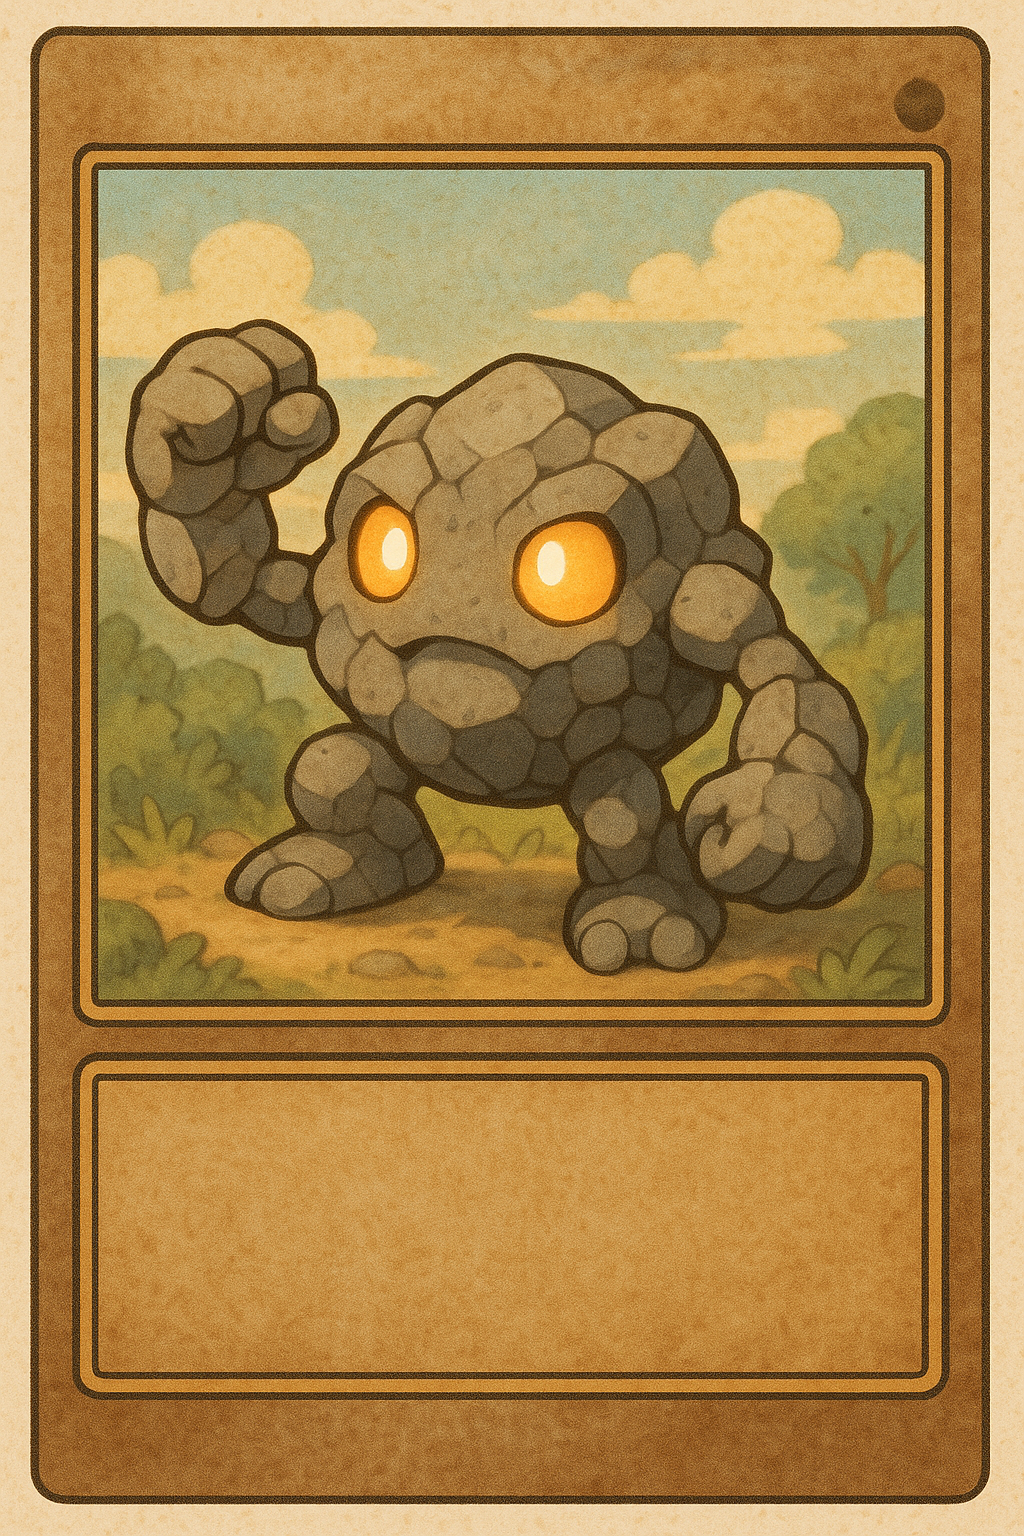
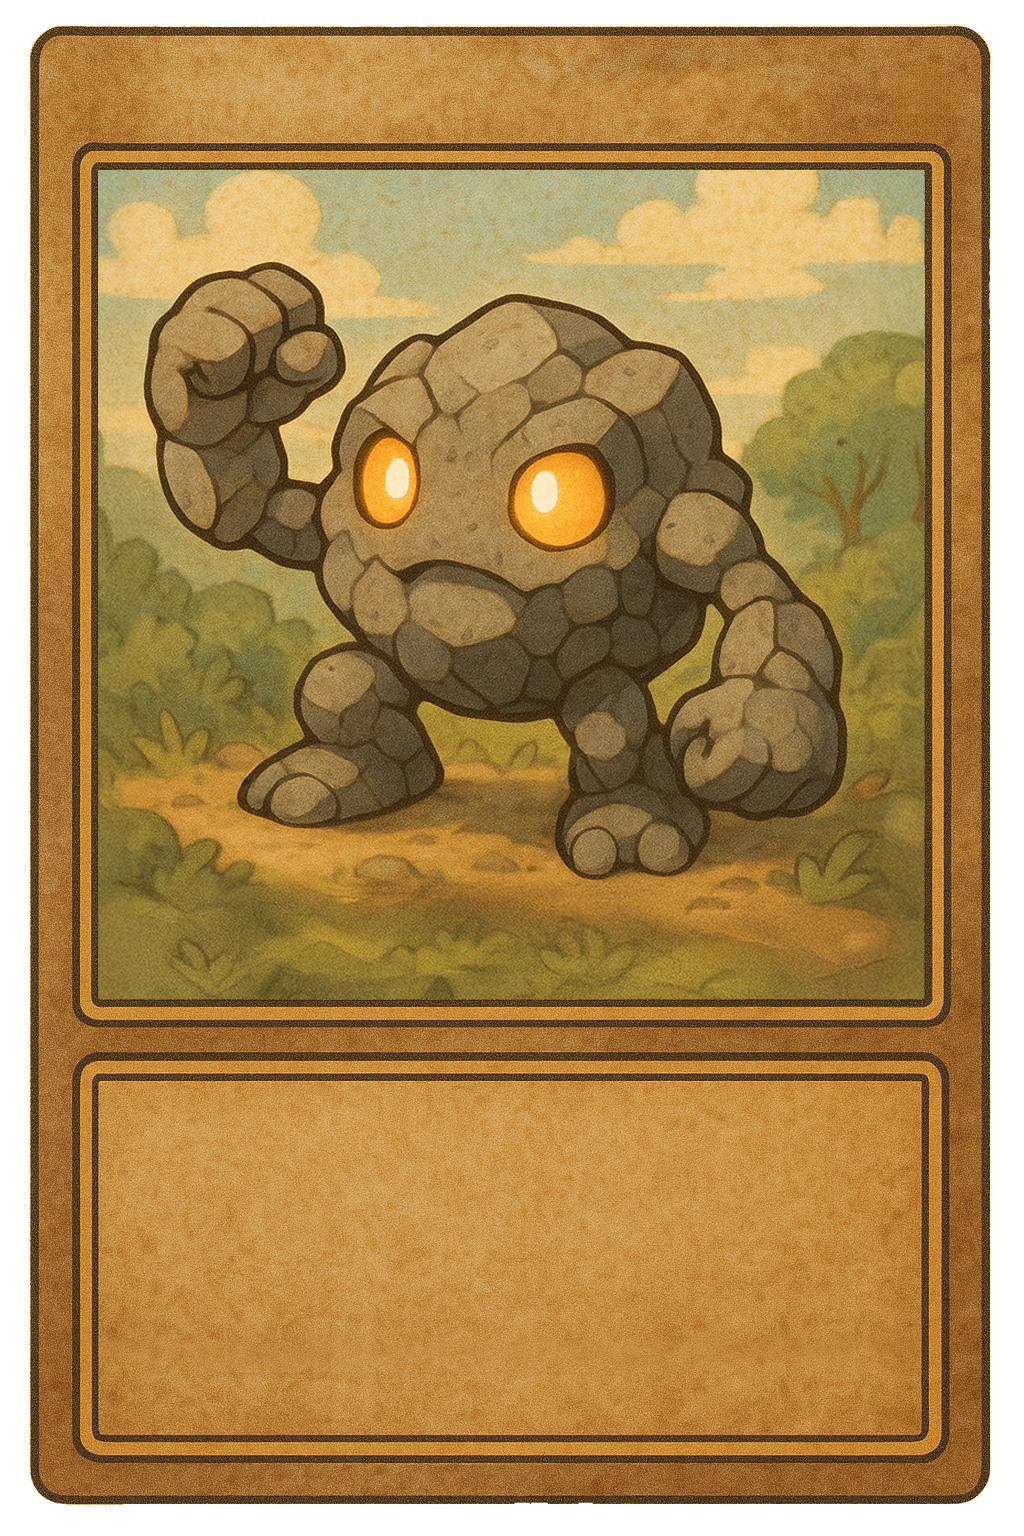
fix shadow dashboard + background login/register

diff --git a/src/pages/LoginPage.css b/src/pages/LoginPage.css
@@ -1,10 +1,18 @@
+/* Apply background color to body instead of centered */
+body {
+  background-color: #A5D7EF;
+  margin: 0;
+  padding: 0;
+  height: 100%;
+}
+
+/* Centered layout */
 .centered {
   position: relative;
   display: flex;
   align-items: center;
   justify-content: center;
   min-height: 100vh;
-  background-color: #A5D7EF;
   overflow: hidden;
 }
 
@@ -54,9 +62,9 @@
   background-color: rgb(255, 225, 190);
 }
 
-/* Optionally, for when input is focused */
+/* Focus state */
 .input:focus {
-  border-color: #20a9e9; /* Change border color on focus */
+  border-color: #20a9e9;
 }
 
 /* Button styling */
@@ -81,29 +89,6 @@
   transform: scale(1.03);
 }
 
-/* Background elements (bottom left and right corners) */
-.login-bg-bottom-left {
-  position: fixed;
-  bottom: 0;
-  left: 0;
-  max-height: 800px;
-  z-index: 1;
-  opacity: 0.5;
-  pointer-events: none;
-  object-fit: contain;
-}
-
-.login-bg-bottom-right {
-  position: fixed;
-  bottom: 0;
-  right: 0;
-  max-height: 800px;
-  z-index: 1;
-  opacity: 0.5;
-  pointer-events: none;
-  object-fit: contain;
-}
-
 .status-message {
   font-family: 'Nunito', sans-serif;
   background-color: #d1fae5;
@@ -114,4 +99,61 @@
   margin-bottom: 1rem;
   font-weight: bold;
   text-align: center;
+}
+
+/* Ensure root takes full height */
+html, body, #root {
+  height: 100%;
+  margin: 0;
+  padding: 0;
+}
+
+/* Generic text styling */
+.text {
+  font-family: 'Lucida Sans', 'Lucida Sans Regular', 'Lucida Grande', 'Lucida Sans Unicode', Geneva, Verdana, sans-serif;
+}
+
+.link {
+  text-decoration: none;
+  color: hsl(211, 100%, 55%);
+  font-weight: 900;
+  transition: color 0.3s ease, transform 0.3s ease;
+  display: inline-block;
+  cursor: pointer;
+}
+
+.link:hover {
+  color: #0065d1;
+  transform: scale(1.02);
+}
+
+/* Decorative backgrounds */
+.bg-bottom-left {
+  position: fixed;
+  bottom: 0;
+  left: 0;
+  width: 60%;
+  height: 60%;
+  background-image: url('/assets/backgrounds/trees_left.png');
+  background-size: contain;
+  background-repeat: no-repeat;
+  background-position: bottom left;
+  z-index: -1; /* behind content */
+  opacity: 0.5;
+  pointer-events: none;
+}
+
+.bg-bottom-right {
+  position: fixed;
+  bottom: 0;
+  right: 0;
+  width: 60%;
+  height: 60%;
+  background-image: url('/assets/backgrounds/trees_right.png');
+  background-size: contain;
+  background-repeat: no-repeat;
+  background-position: bottom right;
+  z-index: -1; /* behind content */
+  opacity: 0.5;
+  pointer-events: none;
 }

diff --git a/src/index.css b/src/index.css
@@ -11,44 +11,9 @@ html, body, #root {
   font-family: sans-serif;
 }
 
-/* Card styles */
-.card {
-  position: relative;
-
-  height: 375px;
-  background-size: cover;
-  background-position: center;
-  box-shadow: 0 10px 20px rgba(0,0,0,0.2);
-
-  overflow: hidden;
-}
-
-.card-header {
-  position: absolute;
-  top: 0.75rem;
-  width: 100%;
-  text-align: center;
-  font-weight: bold;
-  font-size: 1.125rem;
-  color: white;
-  text-shadow: 1px 1px 2px black;
-}
-
-.card-footer {
-  position: absolute;
-  bottom: 0.75rem;
-  left: 0.75rem;
-  right: 0.75rem;
-  font-size: 0.75rem;
-  color: white;
-  font-weight: 500;
-  text-shadow: 1px 1px 2px black;
-}
-
 .text {
   font-family: 'Lucida Sans', 'Lucida Sans Regular', 'Lucida Grande', 'Lucida Sans Unicode', Geneva, Verdana, sans-serif;
 }
-
 
 .link {
   text-decoration: none;
@@ -75,7 +40,7 @@ html, body, #root {
   background-size: contain;
   background-repeat: no-repeat;
   background-position: bottom left;
-  z-index: 1;
+  z-index: 0;
   opacity: 0.5;
   pointer-events: none;
 }
@@ -90,8 +55,7 @@ html, body, #root {
   background-size: contain;
   background-repeat: no-repeat;
   background-position: bottom right;
-  z-index: 1;
+  z-index: 0;
   opacity: 0.5;
   pointer-events: none;
 }
-

diff --git a/src/components/Card.jsx b/src/components/Card.jsx
@@ -3,7 +3,7 @@ import { motion } from 'framer-motion';
 
 export default function Card({ card }) {
   const getImagePath = () => {
-    const type = card.type.toLowerCase(); // rock, paper, scissors
+    const type = card.type.toLowerCase();
     const stage = card.evolutionStage;
     return new URL(`../assets/cards/${type}_evo_${stage}.png`, import.meta.url).href;
   };
@@ -11,14 +11,11 @@ export default function Card({ card }) {
   return (
     <motion.div
       className="card"
+      whileHover={{ scale: 1.1 }}
+      transition={{ duration: 0 }}
       style={{ backgroundImage: `url(${getImagePath()})` }}
-      initial={{ opacity: 0, y: 40 }}
-      animate={{ opacity: 1, y: 0 }}
-      transition={{ duration: 0.4 }}
     >
-      <div className="card-header">
-        {card.name} — {card.type}
-      </div>
+      <div className="card-header">{card.name} — {card.type}</div>
       <div className="card-footer">
         <div>HP: {card.currentHealth} / {card.maxHealth}</div>
         <div>Attack: {card.attack}</div>

diff --git a/src/pages/DashboardPage.css b/src/pages/DashboardPage.css
@@ -63,3 +63,44 @@
   grid-template-columns: repeat(auto-fit, minmax(200px, 1fr));
   gap: 2rem;
 }
+
+.card {
+  position: relative;
+  width: 250px;
+  height: 375px;
+  background-size: contain;
+  background-repeat: no-repeat;
+  background-position: center;
+  transition: transform 0.3s ease;
+  overflow: hidden;
+  display: flex;
+  flex-direction: column;
+  justify-content: space-between;
+  padding: 0.5rem;
+  box-shadow: none;
+  filter: drop-shadow(10px 10px 0px rgb(107, 177, 224));
+}
+
+.card-header {
+  font-family: Impact, Haettenschweiler, 'Arial Narrow Bold', sans-serif;
+  font-weight: 900;
+  position: absolute;
+  width: 93%;
+  text-align: center;
+  padding-top: 0.35rem;
+  color: black;
+  font-size: 1.125rem;
+}
+
+.card-footer {
+  font-family: Impact, Haettenschweiler, 'Arial Narrow Bold', sans-serif;
+  font-weight: 900;
+  position: absolute;
+  width: 93%;
+  text-align: center;
+  color: black;
+  text-shadow: 1px 1px 2px white;
+  bottom: 2rem;
+  font-size: 0.875rem;
+}
+

diff --git a/src/pages/RegisterPage.jsx b/src/pages/RegisterPage.jsx
@@ -55,10 +55,11 @@ export default function RegisterPage() {
 
       <div className="centered">
         <div className="login-wrapper">
-          <img
+          <motion.img
             src={logo}
             alt="Virtual Cards Logo"
             className="login-logo-outside"
+            whileHover={{ scale: 1.02, transition: { duration: 0.2 } }}
           />
 
           <motion.div
